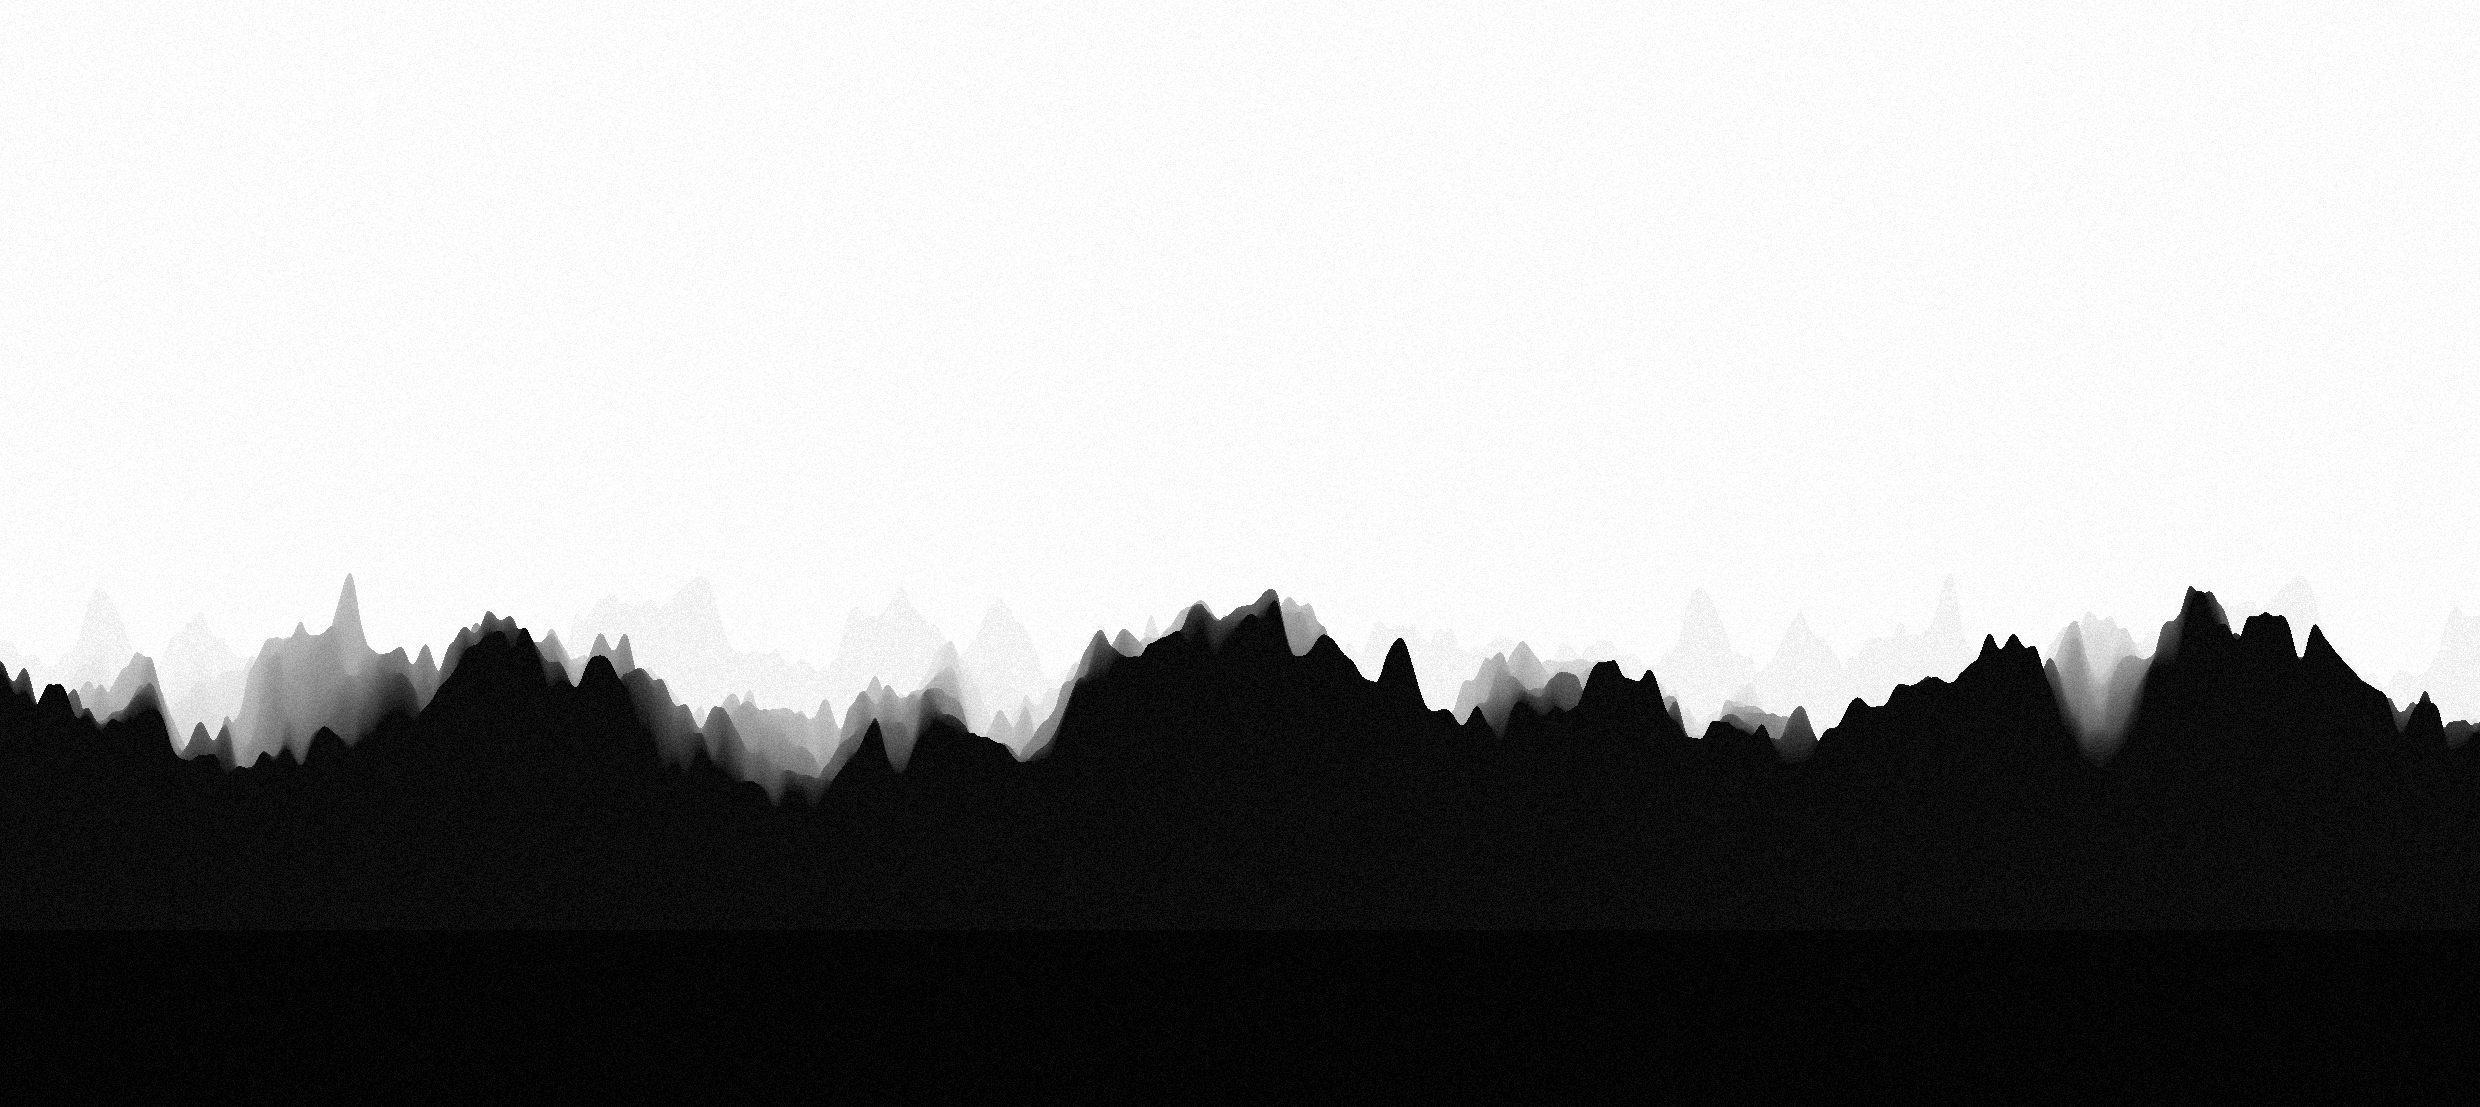
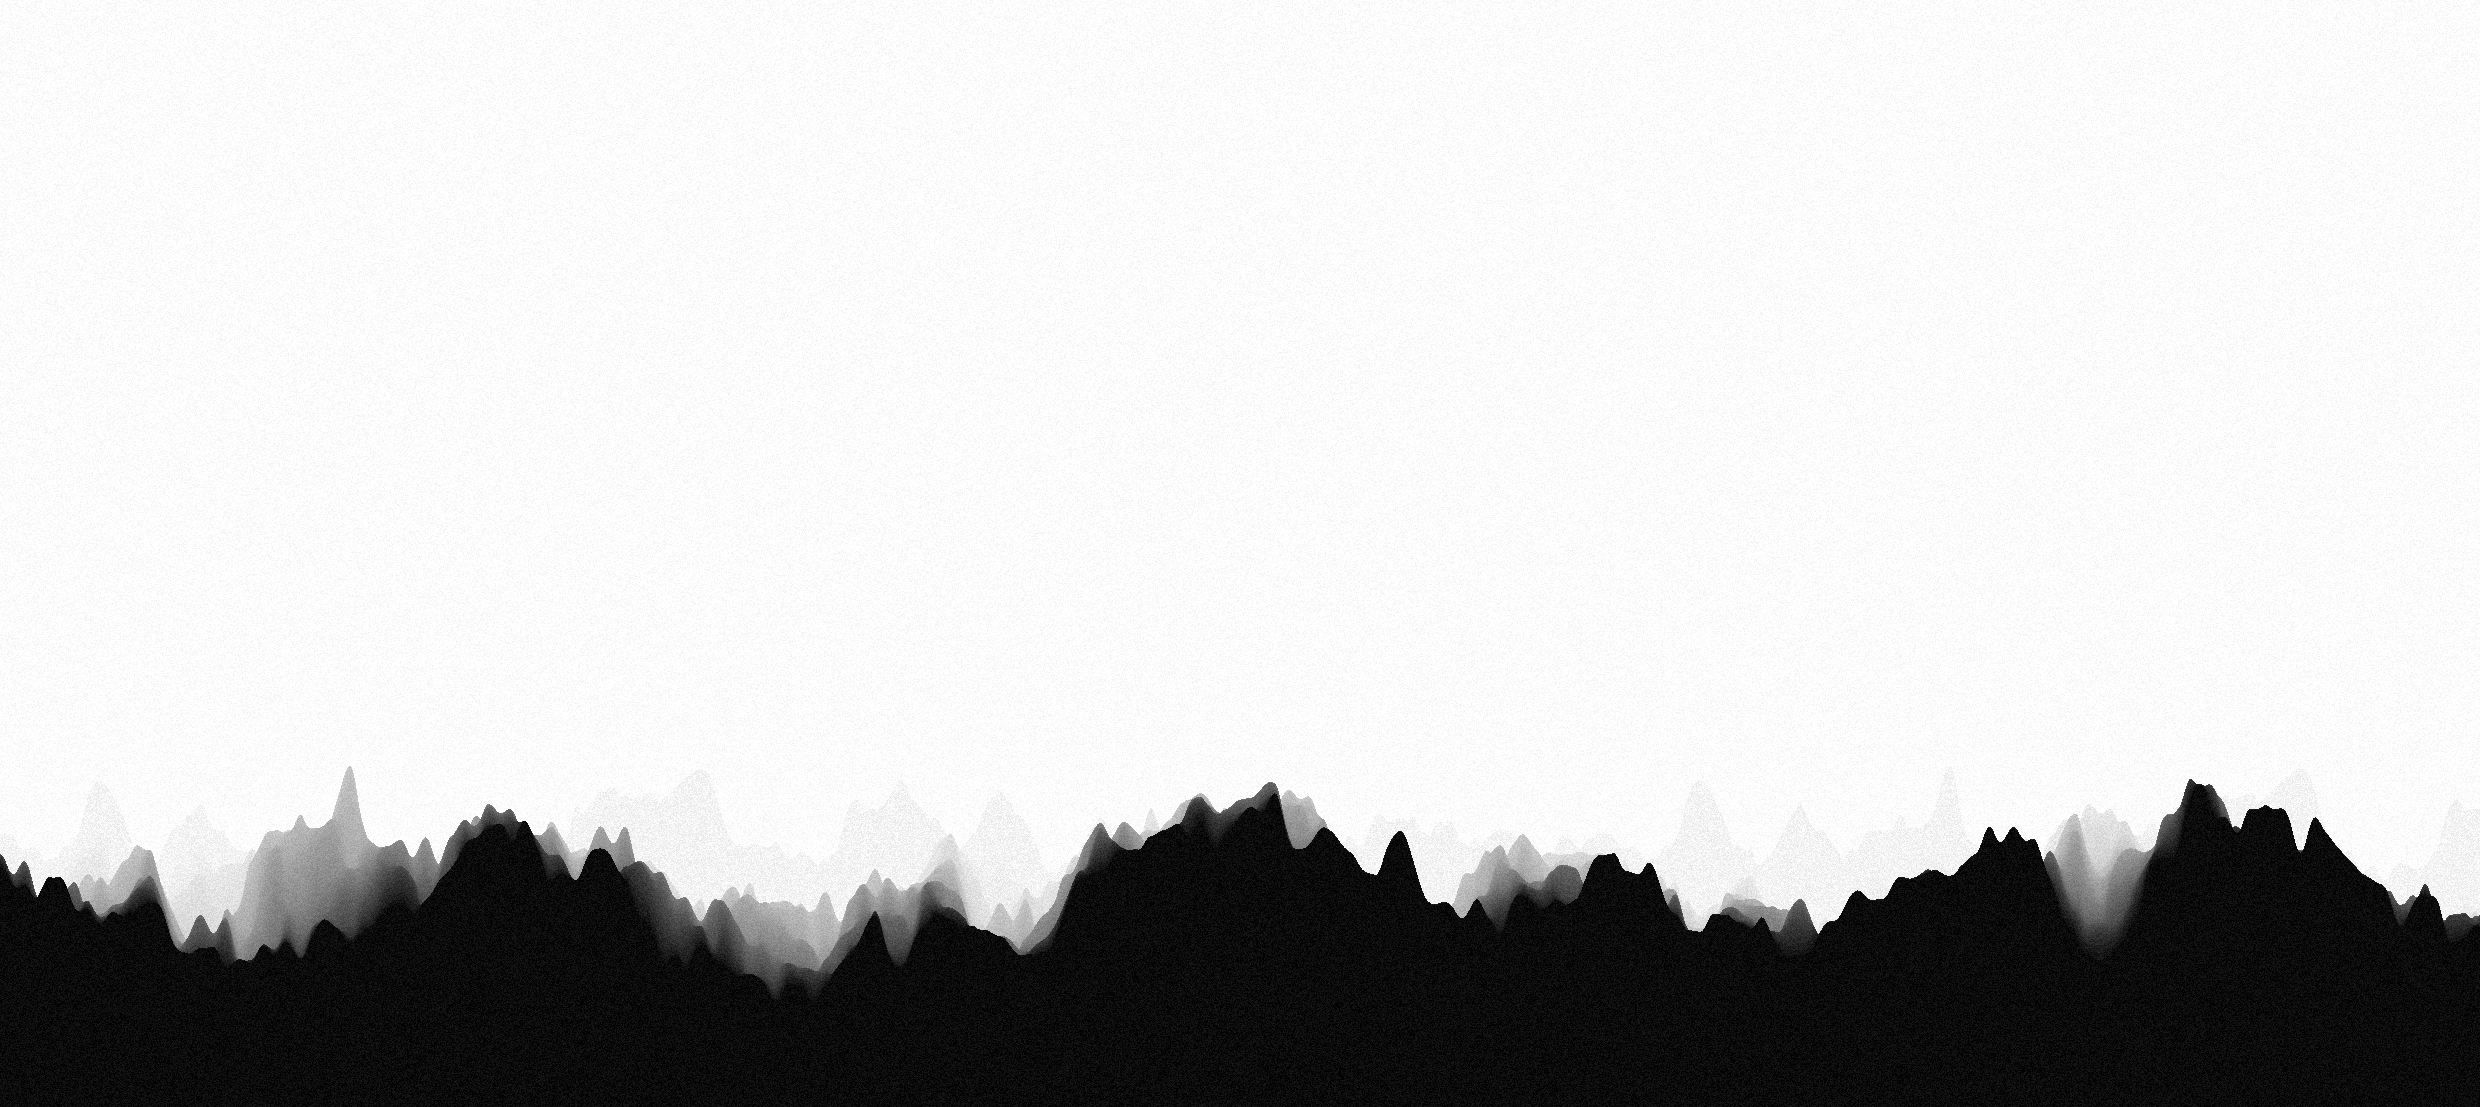
Revision

Changed region(s): [[0.0, 0.5221, 1.0, 0.8907]]

diff --git a/assets/css/style.css b/assets/css/style.css
@@ -282,7 +282,7 @@ section .subtitle-half h5 {
 .overlay {
     width: 100%;
     overflow:hidden;
-    min-height:800px;
+    min-height:700px;
 }
 .overlay-fluid-block {
     background-color: rgba(0, 0, 0, 0.5);
@@ -473,7 +473,7 @@ textarea::-ms-input-placeholder
 
 /*For Home Section*/
 .home{
-    background: url(../../header_photo.jpg) no-repeat center top fixed;
+    background: url(../../header_photo.jpg) no-repeat center bottom;
     background-size: cover;
     -moz-background-size: cover;
     -webkit-background-size: cover;
@@ -482,7 +482,7 @@ textarea::-ms-input-placeholder
     overflow: hidden;
 }
 .home-wrapper{
-    margin-top:240px;
+    margin-top:100px;
     color:#fff;
 }
 .home-content h1{

diff --git a/index.html b/index.html
@@ -325,8 +325,6 @@
 
         <script src="assets/js/plugins.js"></script>
         <script src="assets/js/jquery.magnific-popup.js"></script>
-        <script src="assets/js/modernizr.js"></script>
-
         <script src="assets/js/main.js"></script>
     
         <script src="assets/js/music.js"></script>
